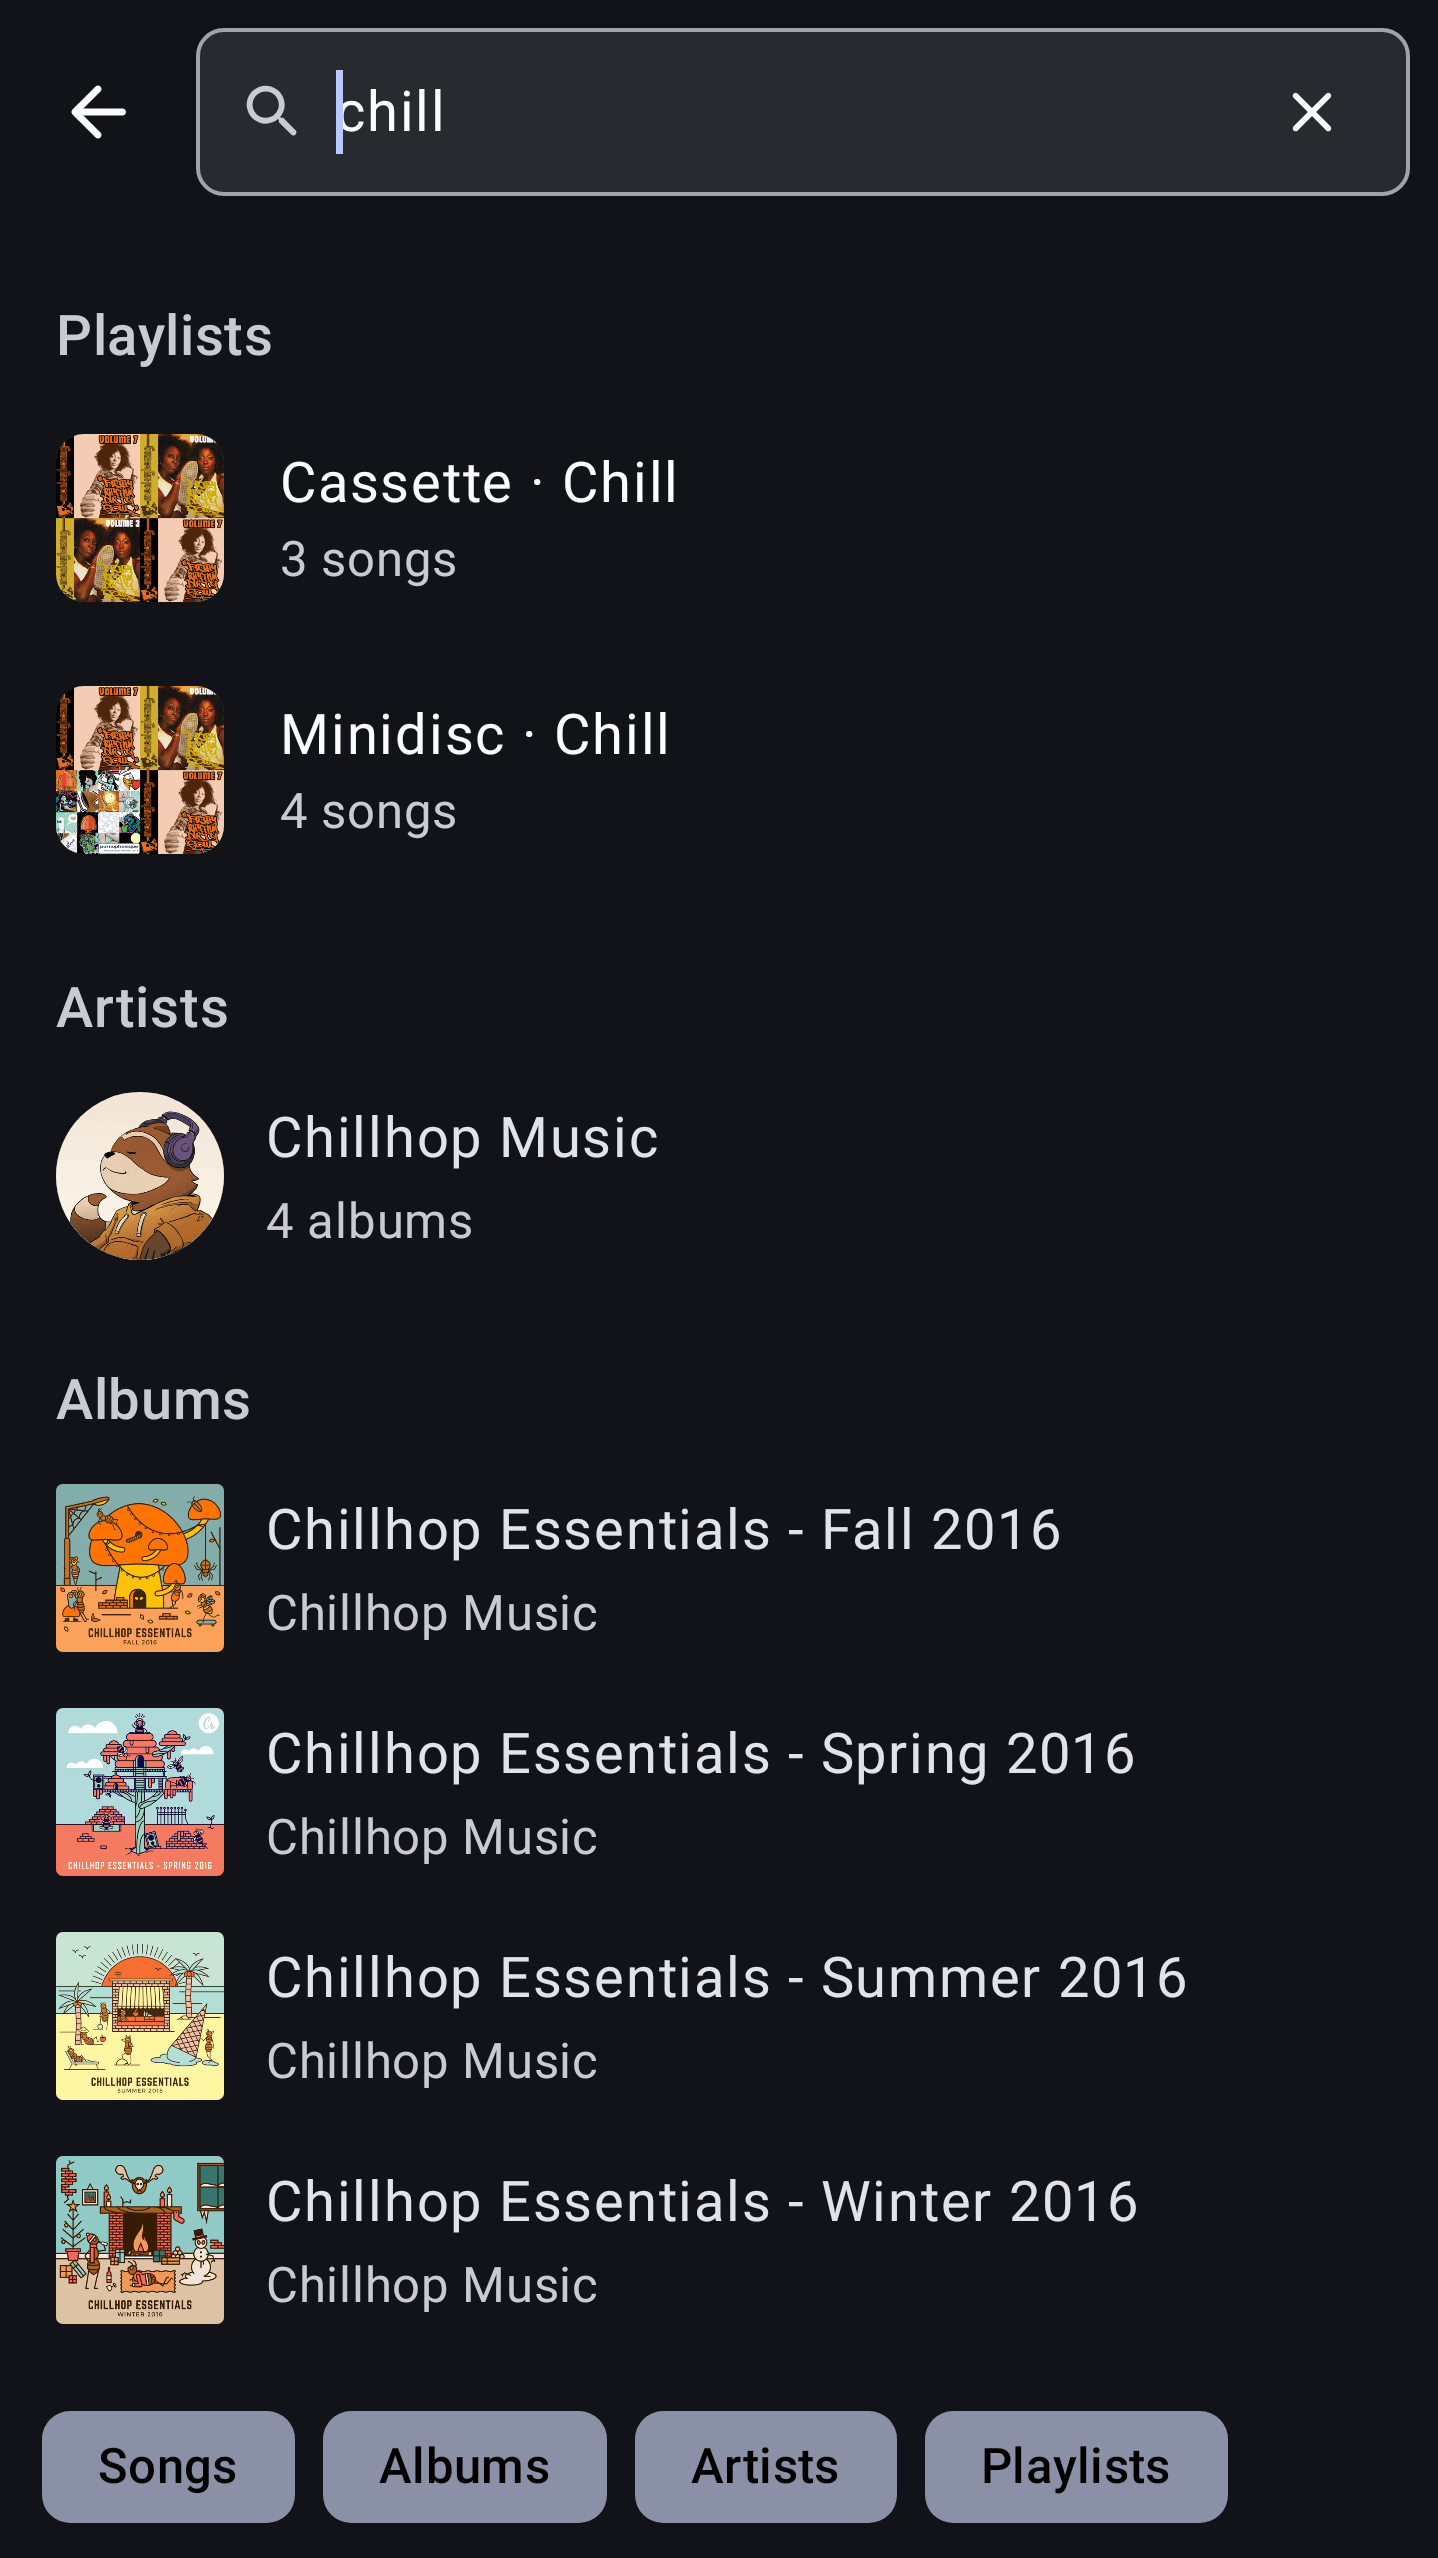
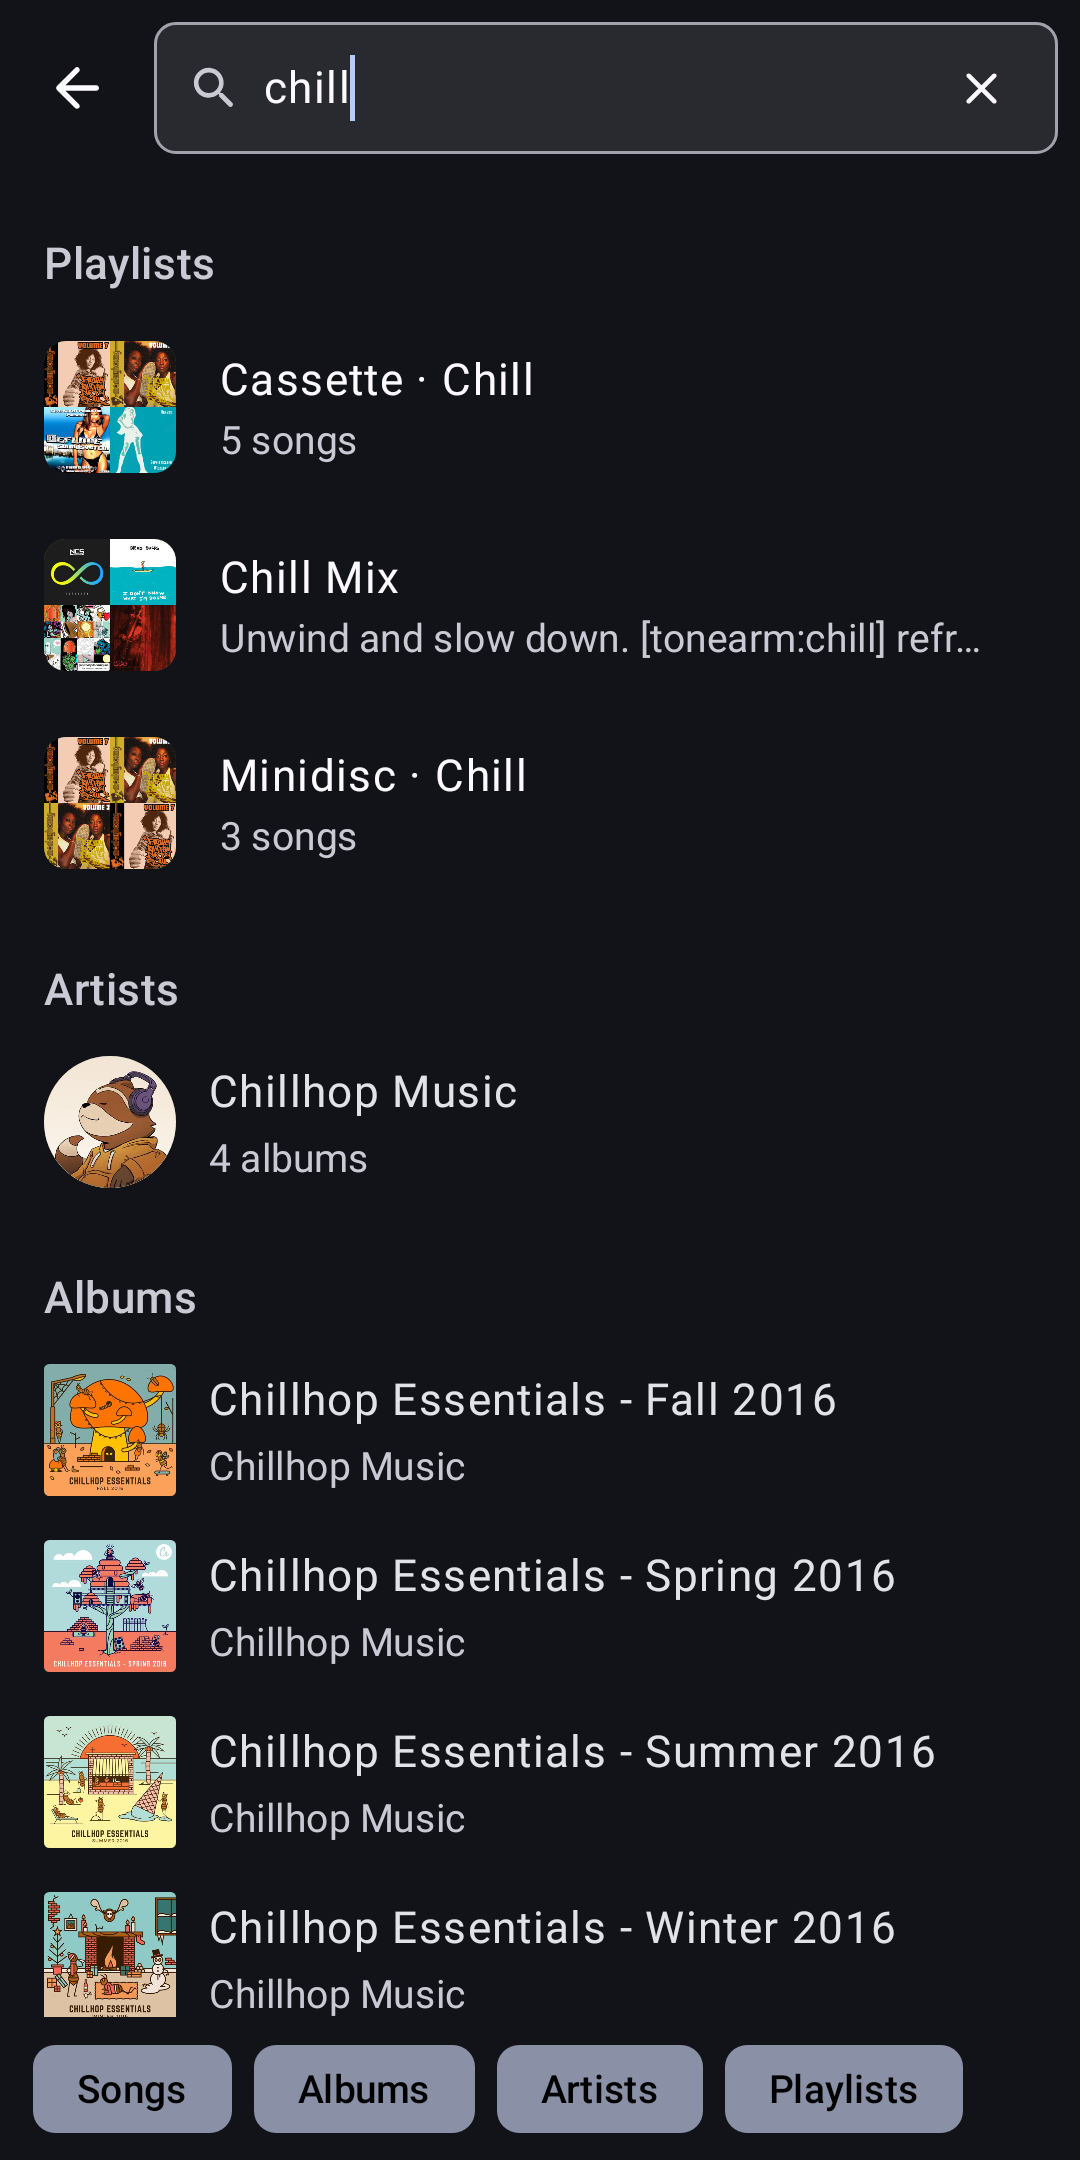
metadata: refresh the artist screenshot with the new biography
Regenerate the store screenshots from the demo library. Only the artist
page changed meaningfully, so keep that capture, using Nine Inch Nails,
which has a biography and three albums.

The demo test now fetches the artist biography and passes artist art to
the home, library and search screens, so a regeneration keeps their art
instead of falling back to letter placeholders.

The captures now come from a 393x786 dp, 440 dpi phone: Pixel XL's
640x360 dp renders text far larger than a real phone shows it. That
phone renders 1080x2161, one pixel over the 2:1 limit both stores
enforce, so captures are written out at 1080x2160.

diff --git a/app/src/test/kotlin/com/subtracks/ui/DemoScreenshotTest.kt b/app/src/test/kotlin/com/subtracks/ui/DemoScreenshotTest.kt
@@ -40,12 +40,14 @@ import com.subtracks.data.model.Source
 import com.subtracks.data.model.coverArtKey
 import com.subtracks.data.prefs.ListQuery
 import com.subtracks.data.repo.SEARCH_RESULT_LIMIT
+import com.subtracks.data.repo.normalizeBiography
 import com.subtracks.data.source.subsonic.SubsonicSource
 import com.subtracks.data.source.subsonic.TestServer
 import com.subtracks.data.source.subsonic.TestServers
 import com.subtracks.data.sync.SyncService
 import com.subtracks.playback.PlaybackState
 import com.subtracks.playback.QueueItem
+import com.subtracks.ui.components.ArtistArt
 import com.subtracks.ui.home.HomeFeed
 import com.subtracks.ui.home.HomeScreen
 import com.subtracks.ui.library.AlbumDetailScreen
@@ -82,11 +84,15 @@ import javax.imageio.ImageIO
  * by `:*UnitTest` or the integration suite; run it explicitly with `gradle :app:demoScreenshots`.
  * The synced database is rebuilt each run; downloaded cover art is cached under the system temp dir
  * so reruns do not re-fetch it.
+ *
+ * The device is a 393x786 dp phone at 440 dpi, which renders 1080x2161. A capture one pixel over
+ * 1080x2160 breaks the stores' 2:1 limit, so the captures are cropped to 1080x2160 afterwards, with
+ * the last row taken from the row above it.
  */
 @OptIn(DelicateCoilApi::class)
 @RunWith(AndroidJUnit4::class)
 @GraphicsMode(GraphicsMode.Mode.NATIVE)
-@Config(qualifiers = RobolectricDeviceQualifiers.PixelXL)
+@Config(qualifiers = "w393dp-h786dp-normal-long-notround-any-440dpi-keyshidden-nonav")
 class DemoScreenshotTest {
     @get:Rule
     val composeRule = createAndroidComposeRule<ComponentActivity>()
@@ -123,6 +129,7 @@ class DemoScreenshotTest {
                                 HomeScreen(
                                     feed = demo.feed,
                                     coverArt = demo.coverArt,
+                                    artistArt = demo::artistArt,
                                     playingSongId = demo.homePlayingSong.id,
                                     modifier = Modifier.fillMaxSize(),
                                 )
@@ -178,6 +185,7 @@ class DemoScreenshotTest {
                             ArtistDetailScreen(
                                 artist = demo.artist,
                                 artistName = demo.artist.name,
+                                bio = demo.artistBio,
                                 albums =
                                     ArtistAlbums(
                                         albumCredits =
@@ -216,6 +224,7 @@ class DemoScreenshotTest {
                                     onSync = {},
                                     onOpenSettings = {},
                                     artwork = demo.artwork(demo.nowPlayingAlbum.coverArt),
+                                    artistArt = demo::artistArt,
                                     modifier = Modifier.weight(1f),
                                 )
                                 demo.MiniPlayerOverlay(demo.nowPlayingSong, demo.nowPlayingAlbum, progressInset = true)
@@ -228,6 +237,7 @@ class DemoScreenshotTest {
                                 onQueryChange = {},
                                 results = demo.search,
                                 coverArt = demo.coverArt,
+                                artistArt = demo::artistArt,
                                 playingSongId = demo.nowPlayingSong.id,
                                 modifier = Modifier.fillMaxSize(),
                             )
@@ -288,7 +298,7 @@ class DemoScreenshotTest {
 
     private fun reencodeOpaqueRgb(file: File) {
         val decoded = ImageIO.read(file)
-        val rgb = BufferedImage(decoded.width, decoded.height, BufferedImage.TYPE_INT_RGB)
+        val rgb = BufferedImage(decoded.width, decoded.width * 2, BufferedImage.TYPE_INT_RGB)
         rgb.createGraphics().run {
             drawImage(decoded, 0, 0, null)
             dispose()
@@ -329,6 +339,7 @@ class DemoScreenshotTest {
         val homePlayingAlbum: Album,
         val homePlayingSong: Song,
         val artist: Artist,
+        val artistBio: String?,
         val artistAlbums: List<Album>,
         val search: SearchResults,
         val coverArt: (String?, Boolean) -> CoverArtRef?,
@@ -369,6 +380,15 @@ class DemoScreenshotTest {
                     ?: palette.mutedSwatch
                     ?: palette.dominantSwatch
             return artworkColorsFromSeeds(primary?.rgb ?: FALLBACK_SEED, null)
+        }
+
+        fun artistArt(artist: Artist): ArtistArt {
+            val thumbnail = artist.coverArt?.let { coverArt(it, true) }
+            return ArtistArt(
+                image = thumbnail,
+                thumbnail = thumbnail,
+                covers = artist.coverArts.take(4).mapNotNull { coverArt(it, true) },
+            )
         }
 
         companion object {
@@ -417,9 +437,11 @@ class DemoScreenshotTest {
                     val homePlayingAlbum = allAlbums.firstOrNull { it.name == "Shaking The Habitual" } ?: allAlbums.last()
                     val homePlayingSong = songsOf(homePlayingAlbum).first()
                     val artist =
-                        allArtists.firstOrNull { it.name == "Ugress" }
+                        allArtists.firstOrNull { it.name == "Nine Inch Nails" }
+                            ?: allArtists.firstOrNull { it.name == "pornophonique" }
                             ?: allArtists.maxByOrNull { it.albumCount }
                             ?: error("demo library has no artists")
+                    val artistBio = normalizeBiography(source.artistBiography(artist.id))
                     val artistAlbums = dao.albumsForArtist(1, artist.id).first()
 
                     val coverArtIds =
@@ -509,6 +531,7 @@ class DemoScreenshotTest {
                         homePlayingAlbum = homePlayingAlbum,
                         homePlayingSong = homePlayingSong,
                         artist = artist,
+                        artistBio = artistBio,
                         artistAlbums = artistAlbums.filter { it.coverArt != null },
                         search = search,
                         coverArt = coverArt,
